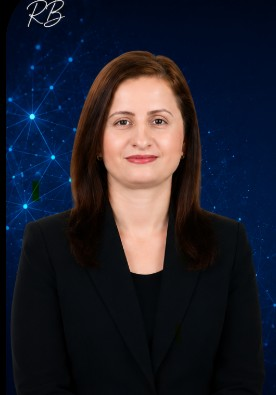
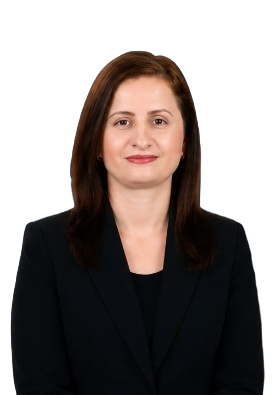
modified hero section and will strat nex section

diff --git a/assets/css/style.css b/assets/css/style.css
@@ -1,52 +1,107 @@
 header{
-    height:100vh;
+    max-height:60vh;
     background-image:url("../images/background.jpg");
     background-size:cover;
     background-position:center;
     background-repeat:no-repeat;
 
     display:flex;
+    justify-content:center;
     align-items:center;
-    justify-content:space-between;
+    gap:60px;
 
-    padding:0 8%;
+    padding:40px 8%;
 
     color:white;
 }
 
-header > div:first-child{
+.hero-image{
     width:35%;
+
+    display:flex;
+    justify-content:center;
+    align-items:center;
 }
 
-header > div:last-child{
+.hero-content{
     width:55%;
-    margin-right:8%;
 }
 
-header img{
-    width:380px;
-    height:auto;
+.hero-image img{
+      width:320px;
+    height:320px;
+
+    object-fit:cover;
+    object-position:center 25%;
+
+    border-radius:50%;
+
+    border:4px solid #2709bc;
+
+    box-shadow:0 12px 20px rgba(0,0,0,.35);
+
+    transform:translateX(-60px);
+    
 }
 
 header h2{
-    font-size:4rem;
+    font-size:2.5rem;
     font-weight:400;
-    margin-bottom:20px;
+    margin-bottom:0px;
+    margin-top:100px;
+    margin-left:180px
 }
 
 header h1{
-    font-size:3rem;
+    font-size:3.5rem;
     font-weight:700;
-    margin-bottom:35px;
+    margin-bottom:25px;
+    margin-top:10px;
+    line-height:1.1;
+    font-style: italic;
 }
-
-header p{
-    font-size:2rem;
-    line-height:1.8;
-}
-
 header h3{
     font-size:1.5rem;
-    margin-top:50px;
+    font-weight:600;
+    margin-top:5px;
+    margin-left:80px;
     margin-bottom:20px;
 }
+.tagline{
+    font-size:1.6rem;
+    line-height:1.4;
+    font-style:italic;
+
+    margin-left:-100px;
+    max-width:700px;
+}
+
+.tagline span{
+    display:block;
+}
+
+.line2{
+    margin-left:100px;
+    margin-bottom:0px;
+}
+
+.tagline-icon{
+    width:38px;
+    height:38px;
+
+    padding:6px;
+
+    border:2px solid black;
+    border-radius:50%;
+
+    background-color:white;
+
+    object-fit:contain;
+    vertical-align:middle;
+
+    margin-right:12px;
+}
+.skills{
+    margin-left:110px;
+}
+

diff --git a/index.html b/index.html
@@ -8,6 +8,7 @@
 
     <title>Robabeh Bashiri | Portfolio</title>
     <link rel="stylesheet" href="assets/css/style.css">
+	<link rel="stylesheet" href="https://cdnjs.cloudflare.com/ajax/libs/font-awesome/6.5.2/css/all.min.css">
 
 </head>
 
@@ -15,21 +16,51 @@
 
 	<header>
 
-		<div>
+		<div class ="hero-image"> 
 
-       		<img src = "assets/images/profile.png" alt="Profile photo">
+       		<img src = "assets/images/profile.jpg" alt="Profile photo">
 
 		</div>
 
-		<div>
-			<h2>Hello, I'm</h2>
-			<h1>Dr. Robabeh Bashiri</h1>
-			<p>Applying machine learning to solve real-world challenges in materials and energy.</p>
+		<div class="hero-content">
+			  <h2>Hello, I'm</h2>   
+
+        	<h1>Dr. Robabeh Bashiri</h1>
 			<h3>Materials Scientist | Data Scientist</h3>
-			<p>Python • Machine Learning • SQL</p>
-    	</div>
+            <div class="skills">
 
+				<span>
+					<i class="fa-brands fa-python"></i> Python
+				</span>
 
+				<span class="dot">•</span>
+
+				<span>
+					<i class="fa-solid fa-brain"></i> Machine Learning
+				</span>
+
+				<span class="dot">•</span>
+
+				<span>
+					<i class="fa-solid fa-database"></i> SQL
+				</span>
+
+			</div>
+
+			<p class="tagline">
+				 
+				<span class = "line1">
+					<img src="assets/images/material-ai-icon.png" alt="Materials Science Icon" class="tagline-icon">
+					Bridging materials science and machine learning
+				</span>
+				
+				<span class="line2">
+					for smarter materials and sustainable energy.
+				</span>
+			</p>
+
+		
+		</div>
 	</header>
 
 </body>